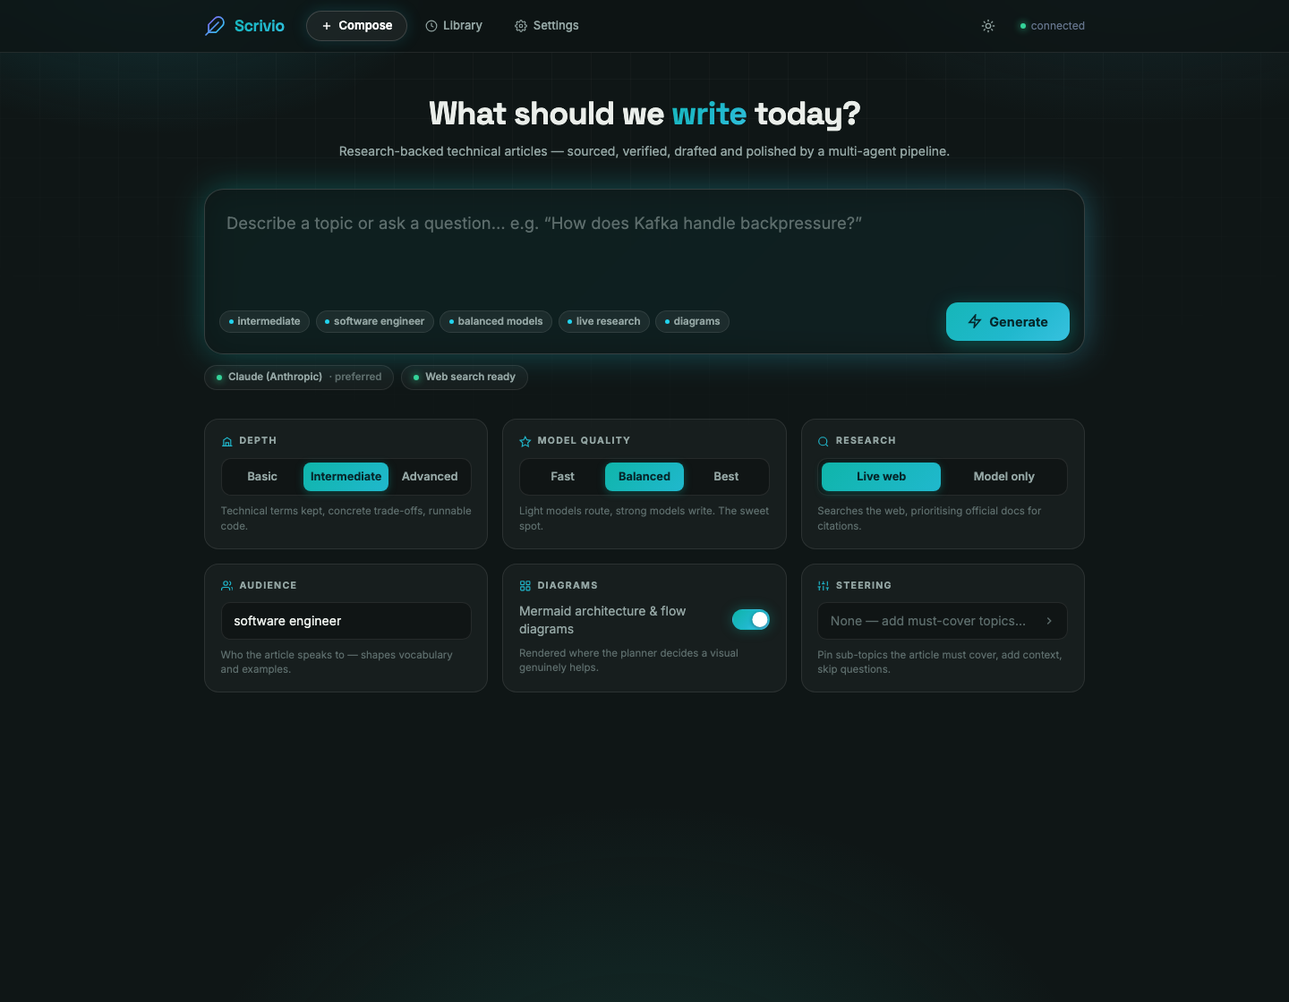
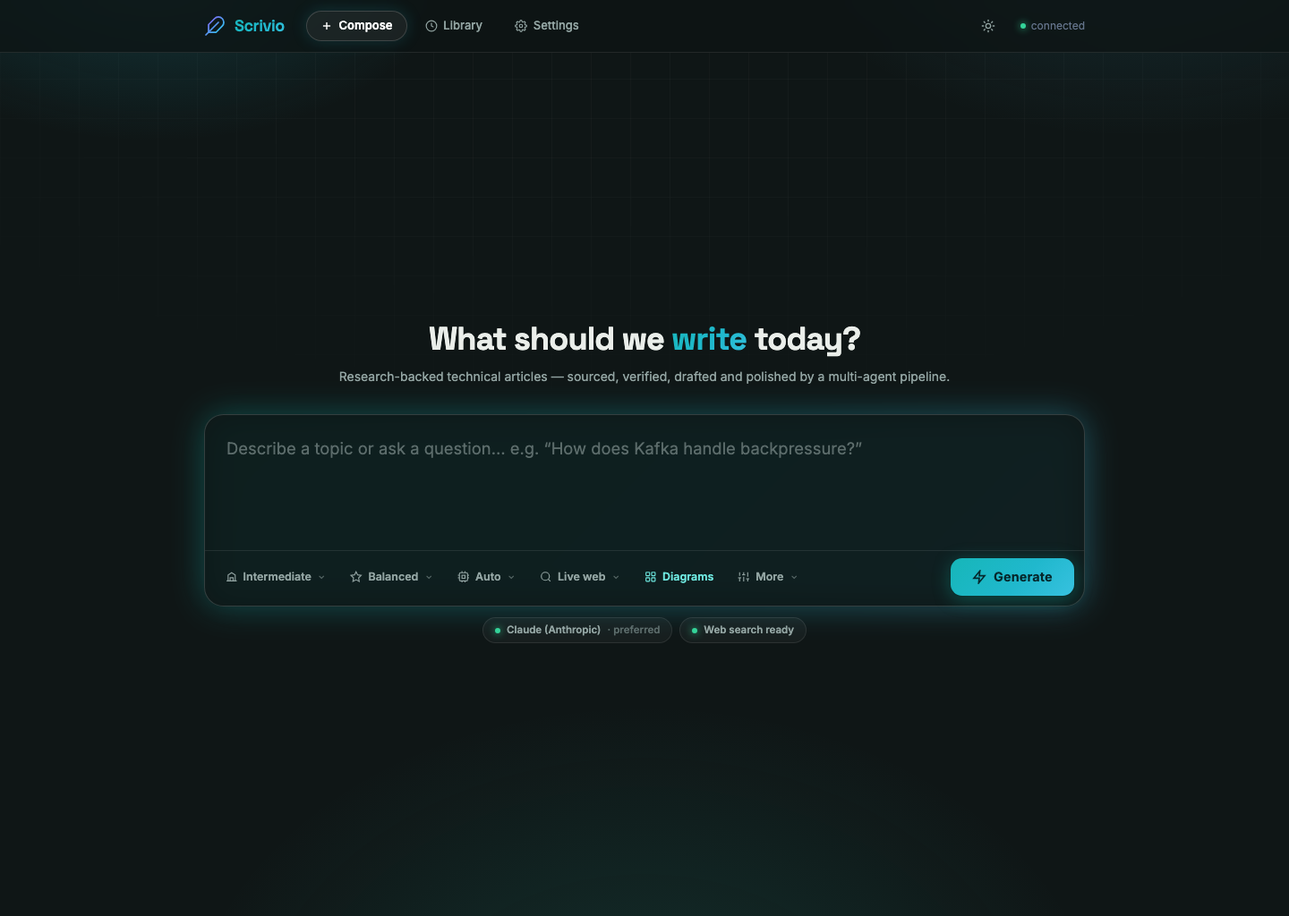
docs: refresh UI screenshots and README, remove em-dashes
- Recapture dark/light screenshots showing the composer-first UI
- Rewrite the Web UI section for the toolbar-pill composer layout
- Remove all em-dashes from the README, restructured grammatically

diff --git a/README.md b/README.md
@@ -10,11 +10,11 @@ Scrivio is a multi-stage AI pipeline that turns a topic or question into a sourc
 
 Dark mode:
 
-![Scrivio UI — dark mode](docs/screenshot-dark.png)
+![Scrivio UI (dark mode)](docs/screenshot-dark.png)
 
 Light mode:
 
-![Scrivio UI — light mode](docs/screenshot-light.png)
+![Scrivio UI (light mode)](docs/screenshot-light.png)
 
 ---
 
@@ -22,22 +22,22 @@ Light mode:
 
 You type a topic. Scrivio handles the rest:
 
-- **Resolves the source of truth** — identifies the official documentation domains for your topic (Kafka → kafka.apache.org, Java → docs.oracle.com) and prioritises them over blogs and Q&A forums
+- **Resolves the source of truth**: identifies the official documentation domains for your topic (Kafka → kafka.apache.org, Java → docs.oracle.com) and prioritises them over blogs and Q&A forums
 - **Researches** the web for real, recent sources (not training data), with a dedicated docs-first search pass
 - **Plans** a section-by-section article structure aligned to your audience and depth level
 - **Drafts** every section with inline citations tied to fetched evidence
 - **Generates Mermaid diagrams** for architecture, flows, and sequence interactions
-- **Verifies** each factual claim against the source it was drawn from — before drafting
+- **Verifies** each factual claim against the source it was drawn from, before drafting
 - **Edits** the draft for thesis alignment, voice, and structural issues (tables, transitions)
 - **Polishes** the voice so it reads like a helpful colleague, not a generated document
 - **Resolves citations** into numbered references with a Sources section
 
-Three quality presets let you trade speed for output quality. Presets are provider-agnostic — "light" and "strong" are tiers that map to Haiku/Sonnet on Anthropic, or to the equivalent GPT models on OpenAI (see [Model Providers](#model-providers)):
+Three quality presets let you trade speed for output quality. Presets are provider-agnostic: "light" and "strong" are tiers that map to Haiku/Sonnet on Anthropic, or to the equivalent GPT models on OpenAI (see [Model Providers](#model-providers)):
 
 | Preset   | Routing stages | Writing stages | Best for                          |
 | -------- | -------------- | -------------- | --------------------------------- |
 | Fast     | Light model    | Strong model   | Quick drafts, prototyping         |
-| Balanced | Light model    | Strong model   | Default — best cost/quality ratio |
+| Balanced | Light model    | Strong model   | Default (best cost/quality ratio) |
 | Best     | Strong model   | Strong model   | Production-quality articles       |
 
 ---
@@ -51,9 +51,9 @@ Three quality presets let you trade speed for output quality. Presets are provid
 | Key                 | Purpose                                                                                                            | Required                          |
 | ------------------- | ------------------------------------------------------------------------------------------------------------------ | --------------------------------- |
 | `ANTHROPIC_API_KEY` | Claude models for the writing pipeline                                                                             | One of the two LLM keys           |
-| `OPENAI_API_KEY`    | GPT models — full pipeline when it's the only key; always used for search-query generation and claim verification  | One of the two LLM keys           |
+| `OPENAI_API_KEY`    | GPT models: full pipeline when it's the only key; always used for search-query generation and claim verification  | One of the two LLM keys           |
 | `TAVILY_API_KEY`    | Live web search (Brave `BRAVE_SEARCH_API_KEY` or Exa `EXA_API_KEY` also work)                                      | Yes, if using live web search     |
-| `JINA_API_KEY`      | Jina Reader — fallback fetcher for pages that block scrapers (Medium, Baeldung, …); Jina returns 401 without a key | Optional, improves source breadth |
+| `JINA_API_KEY`      | Jina Reader: fallback fetcher for pages that block scrapers (Medium, Baeldung, …); Jina returns 401 without a key | Optional, improves source breadth |
 
 ### System Dependencies
 
@@ -92,16 +92,16 @@ cp .env.example .env
 ANTHROPIC_API_KEY=your_anthropic_key_here
 OPENAI_API_KEY=your_openai_key_here
 
-# Optional — live web search for real citations:
+# Optional. Live web search for real citations:
 TAVILY_API_KEY=your_tavily_key_here
 
-# Optional — fallback fetcher for scraper-blocking sites:
+# Optional. Fallback fetcher for scraper-blocking sites:
 # JINA_API_KEY=your_jina_key_here
 
-# Optional — only when both LLM keys are set, pick the default writer:
+# Optional. Only when both LLM keys are set, pick the default writer:
 # LLM_PROVIDER=anthropic
 
-# Optional — model overrides for OpenAI runs (defaults: gpt-5.4 / gpt-5.4-mini):
+# Optional. Model overrides for OpenAI runs (defaults: gpt-5.4 / gpt-5.4-mini):
 # OPENAI_STRONG_MODEL=gpt-5.4
 # OPENAI_LIGHT_MODEL=gpt-5.4-mini
 # OPENAI_REASONING_EFFORT=low   # none | minimal | low | medium | high
@@ -121,26 +121,27 @@ python -m uvicorn api.server:app --host 0.0.0.0 --port 8899
 
 Then open **http://localhost:8899** in your browser.
 
-The UI is a composer-style studio: a large prompt box up top, and the configuration underneath as a deck of control cards. Everything you set is echoed live as a chip trail inside the composer, so you always see exactly what you're about to run. `Cmd/Ctrl+Enter` submits from the prompt box.
+The UI is a composer-first studio in the shape of a search box: a large prompt field sits centered in the viewport, and the options live as a slim toolbar of pills along its bottom edge. Each pill shows its current value and opens a small popover with the full control, so configuration stays out of the way until you want it. `Cmd/Ctrl+Enter` submits from the prompt field.
 
-**Configuration deck:**
+**Composer toolbar:**
 
-| Card          | Description                                                                                                        |
+| Pill          | Opens                                                                                                              |
 | ------------- | ------------------------------------------------------------------------------------------------------------------ |
-| Prompt box    | Free-text — a keyword, question, or concept (e.g. "How does Kafka handle backpressure?")                           |
-| Depth         | Basic / Intermediate / Advanced segmented control — each choice shows a one-line hint of what it means             |
-| Model quality | Fast / Balanced / Best — trades cost for output quality                                                            |
-| Provider      | Auto / Claude / GPT — pin this article's writing provider; options without a configured key are disabled           |
+| Prompt field  | Free-text: a keyword, question, or concept (e.g. "How does Kafka handle backpressure?")                           |
+| Depth         | Basic / Intermediate / Advanced: each choice shows a one-line hint of what it means                              |
+| Model quality | Fast / Balanced / Best: trades cost for output quality                                                            |
+| Provider      | Auto / Claude / GPT: pin this article's writing provider; options without a configured key are disabled           |
 | Research      | Live web (docs-first search, needs a search key) or Model only (no search key needed)                              |
-| Audience      | Who the article is for (e.g. "software engineer", "tech lead")                                                     |
-| Diagrams      | Toggle Mermaid diagram generation on or off                                                                        |
-| Steering      | Drawer with extra context, must-cover topics, and a skip-clarification switch — its trigger summarises what's set  |
+| Diagrams      | A two-state toggle pill (teal when on) for Mermaid diagram generation                                              |
+| More          | A popover with audience, extra context, must-cover topics, and a skip-clarification switch; a `More · N` badge counts how many of these differ from the defaults |
+
+A quiet status line under the composer shows the resolved LLM provider and whether web search is ready.
 
 **Theme:** the sun/moon button in the header switches between dark (ink-teal studio) and light (paper-cream) modes. The choice persists across sessions; first-time visitors get their OS preference. `?theme=dark|light` in the URL forces a mode for shareable links.
 
-**During generation** the execution view shows the full pipeline roadmap up front: every stage with its own symbol, a chip naming the model that executes it, a live progress bar, and per-stage timers. Each stage has an ⓘ info panel explaining what it does, plus an expandable debug panel with run data (search queries, fetched URLs with trust scores, verifier verdicts, critic issues). Stages served from the disk cache show a ⚡ cached chip. If a run fails, the error is pinned to the failing stage with a **Resume** button — completed stages replay from cache, so a retry picks up where it stopped instead of re-running everything.
+**During generation** the execution view shows the full pipeline roadmap up front: every stage with its own symbol, a chip naming the model that executes it, a live progress bar, and per-stage timers. Each stage has an ⓘ info panel explaining what it does, plus an expandable debug panel with run data (search queries, fetched URLs with trust scores, verifier verdicts, critic issues). Stages served from the disk cache show a ⚡ cached chip. If a run fails, the error is pinned to the failing stage with a **Resume** button: completed stages replay from cache, so a retry picks up where it stopped instead of re-running everything.
 
-**Library:** every generated article is browsable, and each has a **Re-run** button that routes back to the composer with all original settings prefilled for editing. Re-runs stack as version chains — one library card per article showing `↻ v2`, with a version dropdown in the article view to read any earlier run.
+**Library:** every generated article is browsable, and each has a **Re-run** button that routes back to the composer with all original settings prefilled for editing. Re-runs stack as version chains: one library card per article showing `↻ v2`, with a version dropdown in the article view to read any earlier run.
 
 ### Command Line
 
@@ -202,18 +203,18 @@ FastAPI server (api/server.py)
     ▼
 Pipeline orchestrator (main.py -> generate_article())
     │
-    ├── Source resolver      (light model — topic → official-docs domains)
+    ├── Source resolver      (light model: topic → official-docs domains)
     ├── Search worker        (Tavily / Brave / Exa, docs-first pass + general pass)
     ├── Extraction worker    (fetch + chunk web pages, tiered trust scoring)
-    ├── Brief worker         (strong model — thesis, angle, hook)
-    ├── Relevance worker     (light model — brief↔request alignment gate)
-    ├── Planning worker      (strong model — sections, claims, visual intents)
-    ├── Verification worker  (OpenAI — claim-by-claim fact check, before drafting)
-    ├── Drafting worker      (strong model — parallel section drafts)
+    ├── Brief worker         (strong model: thesis, angle, hook)
+    ├── Relevance worker     (light model: brief↔request alignment gate)
+    ├── Planning worker      (strong model: sections, claims, visual intents)
+    ├── Verification worker  (OpenAI: claim-by-claim fact check, before drafting)
+    ├── Drafting worker      (strong model: parallel section drafts)
     ├── Mermaid worker       (light model → npx @mermaid-js/mermaid-cli)
-    ├── Editor worker        (strong model — review + targeted revision)
-    ├── Polisher             (strong model — combined level-adapt + voice polish)
-    ├── Critic worker        (strong model — final quality gate, 1 refine loop)
+    ├── Editor worker        (strong model: review + targeted revision)
+    ├── Polisher             (strong model: combined level-adapt + voice polish)
+    ├── Critic worker        (strong model: final quality gate, 1 refine loop)
     └── Citation utils       (marker → numbered reference resolution)
 ```
 
@@ -221,11 +222,11 @@ Pipeline orchestrator (main.py -> generate_article())
 
 **Prompts** live in `pipeline/prompts/` as version-tagged text files, assembled by `pipeline/prompt_loader.py`. Shared fragments (`_voice_canon_v1.txt` for voice rules and banned phrases, `_preserve_markers_v1.txt` for citation/diagram marker preservation) are injected via `{{include:...}}` directives so every writing and reviewing agent works from one rulebook.
 
-**Caching:** expensive stage outputs (brief, search, planning, verification, drafting, editor, polish) are disk-cached by input hash under `.cache/article_pipeline/`. Re-running an identical request fast-forwards through cached stages — this is what powers Resume-after-failure and cheap re-runs.
+**Caching:** expensive stage outputs (brief, search, planning, verification, drafting, editor, polish) are disk-cached by input hash under `.cache/article_pipeline/`. Re-running an identical request fast-forwards through cached stages. This is what powers Resume-after-failure and cheap re-runs.
 
 ### Doc-first citations
 
-Citations follow a strict precedence: **official docs > articles > Q&A forums**. Before searching, a small model resolves the topic's official documentation domains (with a static seed map as fallback; shared hosts like github.com or medium.com can never be blessed as "official"). Those domains get a dedicated domain-restricted search pass, score highest in trust ranking, and win the planner's evidence slots — capped at half the fetch budget so articles still cite diverse sources.
+Citations follow a strict precedence: **official docs > articles > Q&A forums**. Before searching, a small model resolves the topic's official documentation domains (with a static seed map as fallback; shared hosts like github.com or medium.com can never be blessed as "official"). Those domains get a dedicated domain-restricted search pass, score highest in trust ranking, and win the planner's evidence slots, capped at half the fetch budget so articles still cite diverse sources.
 
 Trust tiers (`score_url`): official topic docs `1.0` → curated high-trust list `0.9` → docs-looking URLs on unknown domains `0.8` → GitHub `0.7` → blog platforms `0.65` → unknown HTTPS `0.6` → Stack Overflow / Reddit / Q&A forums `0.45` → plain HTTP `0.35`.
 
@@ -242,9 +243,9 @@ Scrivio is provider-flexible. It picks its LLM provider automatically from the k
 | Both                     | Anthropic by default; `LLM_PROVIDER=openai` to switch   | GPT-4o-mini     |
 | Neither                  | Mock client (placeholder text)                          | mocked          |
 
-(1) Claim verification and search-query generation always run on OpenAI. Without `OPENAI_API_KEY` they fall back to a mock, so claims pass through unverified — an Anthropic-only setup still generates articles, but without the cross-model fact-check.
+(1) Claim verification and search-query generation always run on OpenAI. Without `OPENAI_API_KEY` they fall back to a mock, so claims pass through unverified. An Anthropic-only setup still generates articles, but without the cross-model fact-check.
 
-**Selection order:** a per-request pin (`llm_provider` in the request, set from the UI's Provider card) wins when its key is present; otherwise the key-based auto rules above apply. A pin whose key is missing falls back to auto with a warning — a stale saved request can never break generation.
+**Selection order:** a per-request pin (`llm_provider` in the request, set from the UI's Provider card) wins when its key is present; otherwise the key-based auto rules above apply. A pin whose key is missing falls back to auto with a warning. A stale saved request can never break generation.
 
 Under the hood, every worker calls `client.messages.create(...)` against the Anthropic interface. When OpenAI is selected, `pipeline/providers/openai_adapter.py` wraps the OpenAI client in a shim that presents the same interface: system prompts, forced tool-choice, and stop reasons are translated, model names map by tier (Sonnet/Opus → `OPENAI_STRONG_MODEL`, Haiku → `OPENAI_LIGHT_MODEL`), and reasoning models get token-budget headroom plus a tunable `OPENAI_REASONING_EFFORT`. No worker has provider-specific branches. Provider selection lives in `main.py` (`_resolve_provider()` / `_anthropic_client()`).
 
@@ -261,20 +262,20 @@ Under the hood, every worker calls `client.messages.create(...)` against the Ant
 | 3   | **Brief**                | Sonnet         | Writes a story brief: thesis, angle (explainer / tutorial / deep-dive / comparison / war-story), reader pain point, hook seed, and suggested title.                                                                                                                                                 |
 | 4   | **Relevance check**      | Haiku          | Validates that the brief's thesis and angle match the user's request. Catches brief drift (e.g. a war-story angle on a "What is X" question) before the expensive stages run.                                                                                                                       |
 | 5   | **Official sources**     | Haiku          | Resolves the topic's official documentation domains (Kafka → kafka.apache.org, Java → docs.oracle.com) via a static seed map plus a small model call. These domains drive the docs-first search pass and outrank all other sources in trust scoring.                                                |
-| 6   | **Search**               | — (search API) | Runs a docs-first pass restricted to the official domains plus general targeted queries. Results are ranked by trust tier before fetching; official docs win the budget (capped at half for diversity). If fewer than 15 evidence chunks or 4 useful sources survive, a fallback search runs.       |
-| 7   | **Extraction**           | —              | Fetches each search result URL, strips boilerplate, splits content into overlapping chunks, and scores chunks for relevance. Implausibly small extractions trigger whole-document re-extraction.                                                                                                    |
+| 6   | **Search**               | search API | Runs a docs-first pass restricted to the official domains plus general targeted queries. Results are ranked by trust tier before fetching; official docs win the budget (capped at half for diversity). If fewer than 15 evidence chunks or 4 useful sources survive, a fallback search runs.       |
+| 7   | **Extraction**           | n/a              | Fetches each search result URL, strips boilerplate, splits content into overlapping chunks, and scores chunks for relevance. Implausibly small extractions trigger whole-document re-extraction.                                                                                                    |
 | 8   | **Planning**             | Sonnet         | Produces a section-by-section article plan. Each section gets a title, goal, key claims to make, and a pointer to which evidence spans to draw from.                                                                                                                                                |
-| 9   | **Gap-fill search**      | — (search API) | Detects sections with thin evidence coverage and runs additional targeted searches for those sections specifically.                                                                                                                                                                                 |
+| 9   | **Gap-fill search**      | search API | Detects sections with thin evidence coverage and runs additional targeted searches for those sections specifically.                                                                                                                                                                                 |
 | 10  | **Verification**         | GPT (OpenAI)   | Runs BEFORE drafting (a journalist fact-checks before writing). Checks every planned claim against its cited evidence span. Drops or downgrades claims that are unsupported or irrelevant.                                                                                                          |
 | 11  | **Drafting**             | Sonnet         | Drafts every section in parallel, injecting the relevant evidence spans and citing each claim with a UUID marker. Each section receives a summary of previous sections to maintain flow.                                                                                                            |
 | 12  | **Diagram spec**         | Haiku          | Generates Mermaid diagram specifications for sections that requested a visual (architecture diagrams, sequence diagrams, flow charts).                                                                                                                                                              |
-| 13  | **Diagram rendering**    | — (npx)        | Renders each Mermaid spec to SVG via `@mermaid-js/mermaid-cli` and runs QA checks on the output.                                                                                                                                                                                                    |
+| 13  | **Diagram rendering**    | npx        | Renders each Mermaid spec to SVG via `@mermaid-js/mermaid-cli` and runs QA checks on the output.                                                                                                                                                                                                    |
 | 14  | **Editor review**        | Sonnet         | Reviews the assembled draft for: request alignment, thesis drift, hook quality, voice patterns (em dashes, filler phrases), vague claims, cold transitions, repetition (including within a section), and structural improvement opportunities (comparison tables).                                  |
 | 15  | **Editor revision**      | Sonnet         | Re-drafts only the sections flagged by the editor, merging revision instructions with any structural hints (e.g. "add a comparison table with columns X, Y, Z").                                                                                                                                    |
 | 16  | **Polisher**             | Sonnet         | One combined pass replacing the old compile+humanize sequence: adapts the draft to the requested depth level AND rewrites for natural voice. If the critic flags blocking issues, it runs once more with the critic's issue list as targeted fixes.                                                 |
 | 17  | **Critic**               | Sonnet         | Final quality gate on the polished article. Checks title patterns, opening framing, citation completeness, diagram accuracy, internal consistency (duplicated statements, worked-example drift), voice, structure, and code fidelity. Issues are `blocking`, `moderate`, or `minor`.                |
-| 18  | **Citation resolution**  | —              | Replaces `[src:UUID]` inline markers with numbered references (`[1]`, `[2]`, …) and builds the Sources section at the end of the article.                                                                                                                                                           |
-| 19  | **Assembly**             | —              | Builds the final `PublishedArticle` at the requested explanation level, embeds rendered diagrams, and writes the output markdown and `meta.json` to disk.                                                                                                                                           |
+| 18  | **Citation resolution**  | n/a              | Replaces `[src:UUID]` inline markers with numbered references (`[1]`, `[2]`, …) and builds the Sources section at the end of the article.                                                                                                                                                           |
+| 19  | **Assembly**             | n/a              | Builds the final `PublishedArticle` at the requested explanation level, embeds rendered diagrams, and writes the output markdown and `meta.json` to disk.                                                                                                                                           |
 
 > The Model column shows the balanced-preset Anthropic assignment. Presets map roles to light/strong tiers; with an OpenAI writer the adapter maps those tiers to the equivalent GPT models. Search-query generation and verification always run on OpenAI when its key is present.
 
@@ -301,7 +302,7 @@ scrivio/
 ├── pipeline/
 │   ├── model_config.py        # Central model-selection (Fast / Balanced / Best presets)
 │   ├── cache.py               # Stage-level disk cache (resume + cheap re-runs)
-│   ├── prompt_loader.py       # Prompt assembly — expands {{include:...}} shared fragments
+│   ├── prompt_loader.py       # Prompt assembly: expands {{include:...}} shared fragments
 │   ├── providers/
 │   │   └── openai_adapter.py  # OpenAI→Anthropic shim: full pipeline on an OpenAI-only key
 │   ├── schemas/
@@ -372,7 +373,7 @@ The [`examples/`](examples/) folder contains five real articles generated by Scr
 pytest tests/ -v
 ```
 
-All 219 tests run without API keys — the suite forces mock LLM clients for every test, so it can never spend API credits.
+All 219 tests run without API keys: the suite forces mock LLM clients for every test, so it can never spend API credits.
 
 ---
 
